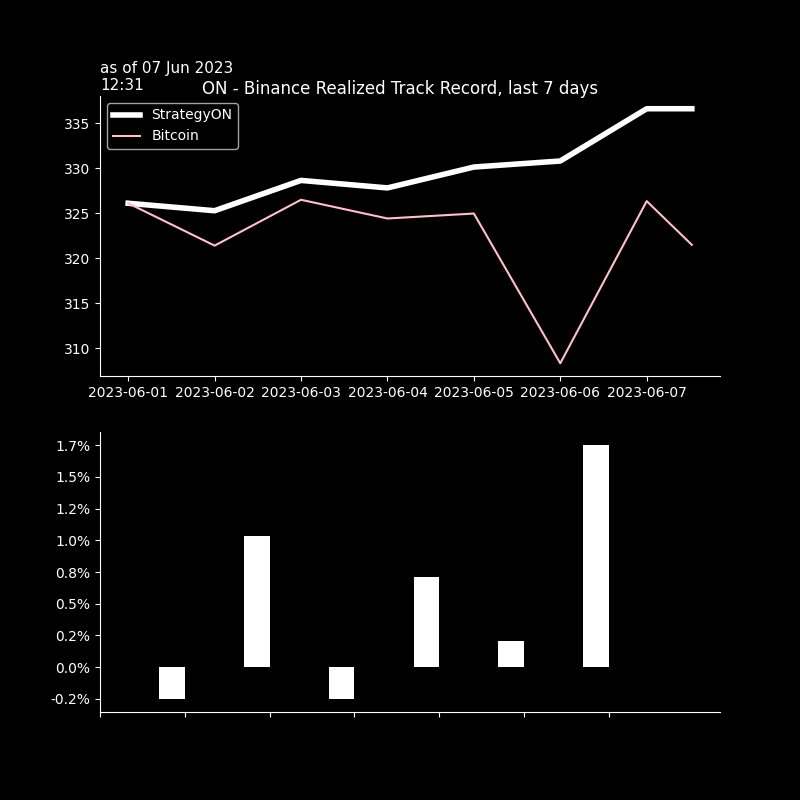
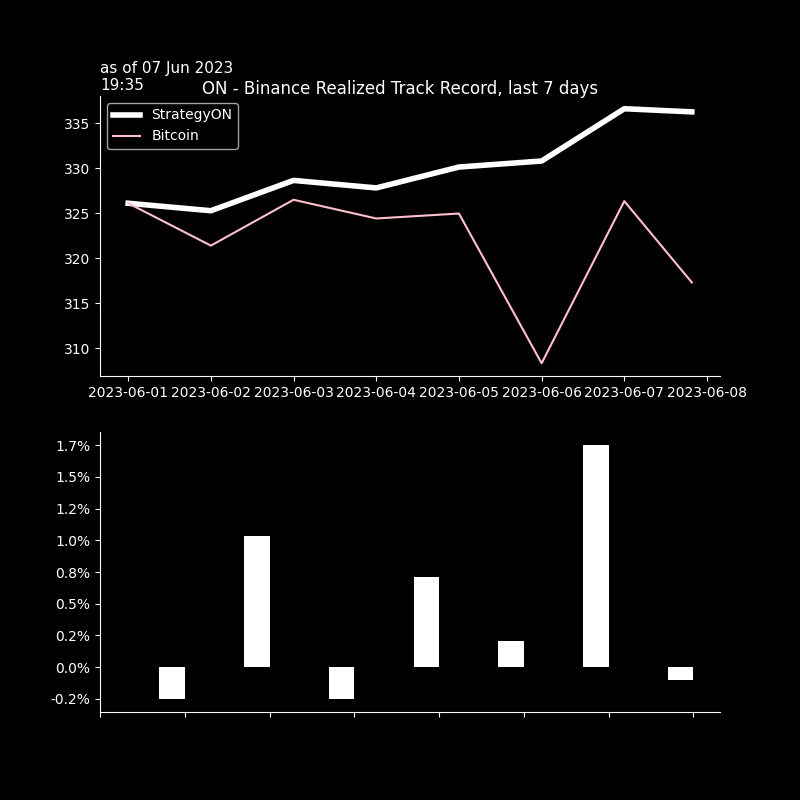
seb_commit

diff --git a/crypto/graphs/bt_trades_book.htmltrade_trades_book.html b/crypto/graphs/bt_trades_book.htmltrade_trades_book.html
@@ -37,55 +37,55 @@
   </thead>
   <tbody>
     <tr>
-      <th>XRPUSDT</th>
-      <td>0.5282</td>
-      <td>2023-06-06 22:32:31</td>
-      <td>-321.000</td>
-      <td>$-169.6</td>
+      <th>BTCUSDT</th>
+      <td>26474.6000</td>
+      <td>2023-06-07 18:33:51</td>
+      <td>0.006</td>
+      <td>$158.8</td>
       <td>$0.03</td>
       <td>1.6</td>
-      <td>4.1</td>
-      <td>0.52795</td>
-      <td>2023-06-06 23:31</td>
-      <td>0.1</td>
-      <td>5.0</td>
-      <td>.5285</td>
-      <td>-0.1</td>
-      <td>-6.0</td>
+      <td>0.0</td>
+      <td>26479.25000</td>
+      <td>2023-06-07 19:32</td>
+      <td>0.0</td>
+      <td>2.0</td>
+      <td>26476.9</td>
+      <td>0.0</td>
+      <td>1.0</td>
     </tr>
     <tr>
       <th>ETHUSDT</th>
-      <td>1878.5600</td>
-      <td>2023-06-06 22:32:43</td>
-      <td>-0.088</td>
-      <td>$-165.3</td>
+      <td>1849.9100</td>
+      <td>2023-06-07 18:33:46</td>
+      <td>0.091</td>
+      <td>$168.3</td>
       <td>$0.03</td>
       <td>1.6</td>
-      <td>0.2</td>
-      <td>1878.14500</td>
-      <td>2023-06-06 23:31</td>
       <td>0.0</td>
-      <td>2.0</td>
-      <td>1878.94</td>
+      <td>1850.75500</td>
+      <td>2023-06-07 19:32</td>
+      <td>0.1</td>
+      <td>5.0</td>
+      <td>1849.83</td>
       <td>-0.0</td>
-      <td>-2.0</td>
+      <td>-1.0</td>
     </tr>
     <tr>
-      <th>BTCUSDT</th>
-      <td>27071.1000</td>
-      <td>2023-06-06 22:32:44</td>
-      <td>-0.006</td>
-      <td>$-162.4</td>
+      <th>XRPUSDT</th>
+      <td>0.5154</td>
+      <td>2023-06-07 18:35:28</td>
+      <td>327.200</td>
+      <td>$168.6</td>
       <td>$0.03</td>
       <td>1.6</td>
-      <td>1.9</td>
-      <td>27065.55000</td>
-      <td>2023-06-06 23:31</td>
       <td>0.0</td>
-      <td>2.0</td>
-      <td>27075.4</td>
-      <td>-0.0</td>
-      <td>-2.0</td>
+      <td>0.51445</td>
+      <td>2023-06-07 19:32</td>
+      <td>-0.3</td>
+      <td>-18.0</td>
+      <td>.5152</td>
+      <td>-0.1</td>
+      <td>-4.0</td>
     </tr>
   </tbody>
 </table>

diff --git a/crypto/graphs/bt_trades_recap.htmltrade_trades_recap.html b/crypto/graphs/bt_trades_recap.htmltrade_trades_recap.html
@@ -9,32 +9,32 @@
   <tbody>
     <tr>
       <th>as of</th>
-      <td>06Jun 22:32&gt;&gt;22:32</td>
+      <td>07Jun 18:33&gt;&gt;18:35</td>
       <td>#trades: 3</td>
     </tr>
     <tr>
       <th>trade net</th>
-      <td>-497.0</td>
-      <td>-147.7%</td>
+      <td>+496.0</td>
+      <td>+147.4%</td>
     </tr>
     <tr>
       <th>trade gross</th>
-      <td>+497.0</td>
-      <td>+147.7%</td>
+      <td>+496.0</td>
+      <td>+147.4%</td>
     </tr>
     <tr>
       <th>BUY</th>
+      <td>+496.0</td>
+      <td>+147.4%</td>
+    </tr>
+    <tr>
+      <th>SELL</th>
       <td>+0.0</td>
       <td>+0.0%</td>
     </tr>
     <tr>
-      <th>SELL</th>
-      <td>-497.0</td>
-      <td>-147.7%</td>
-    </tr>
-    <tr>
       <th>fees</th>
-      <td>$ 0.08</td>
+      <td>$ 0.079</td>
       <td>1.6bp</td>
     </tr>
   </tbody>

diff --git a/crypto/graphs/bt_trades_pnlD_recap.htmltrade_trades_pnlD_recap.html b/crypto/graphs/bt_trades_pnlD_recap.htmltrade_trades_pnlD_recap.html
@@ -1,7 +1,7 @@
 <table border="1" class="dataframe">
   <thead>
     <tr style="text-align: right;">
-      <th>06 Jun 23:32</th>
+      <th>07 Jun 19:35</th>
       <th>realizedPnl</th>
       <th>PnLvsArrival</th>
       <th>PnLvsLast</th>
@@ -10,21 +10,21 @@
   <tbody>
     <tr>
       <th>in$</th>
-      <td>6.2</td>
-      <td>0.1</td>
+      <td>0.0</td>
       <td>-0.2</td>
+      <td>-0.1</td>
     </tr>
     <tr>
-      <th>in bp 497 traded</th>
-      <td>125 bp</td>
-      <td>3 bp</td>
-      <td>-3 bp</td>
+      <th>in bp 495 traded</th>
+      <td>0 bp</td>
+      <td>-4 bp</td>
+      <td>-1 bp</td>
     </tr>
     <tr>
       <th>in bp 336 AUMs</th>
-      <td>185 bp</td>
-      <td>4 bp</td>
-      <td>-5 bp</td>
+      <td>0 bp</td>
+      <td>-6 bp</td>
+      <td>-2 bp</td>
     </tr>
   </tbody>
 </table>
